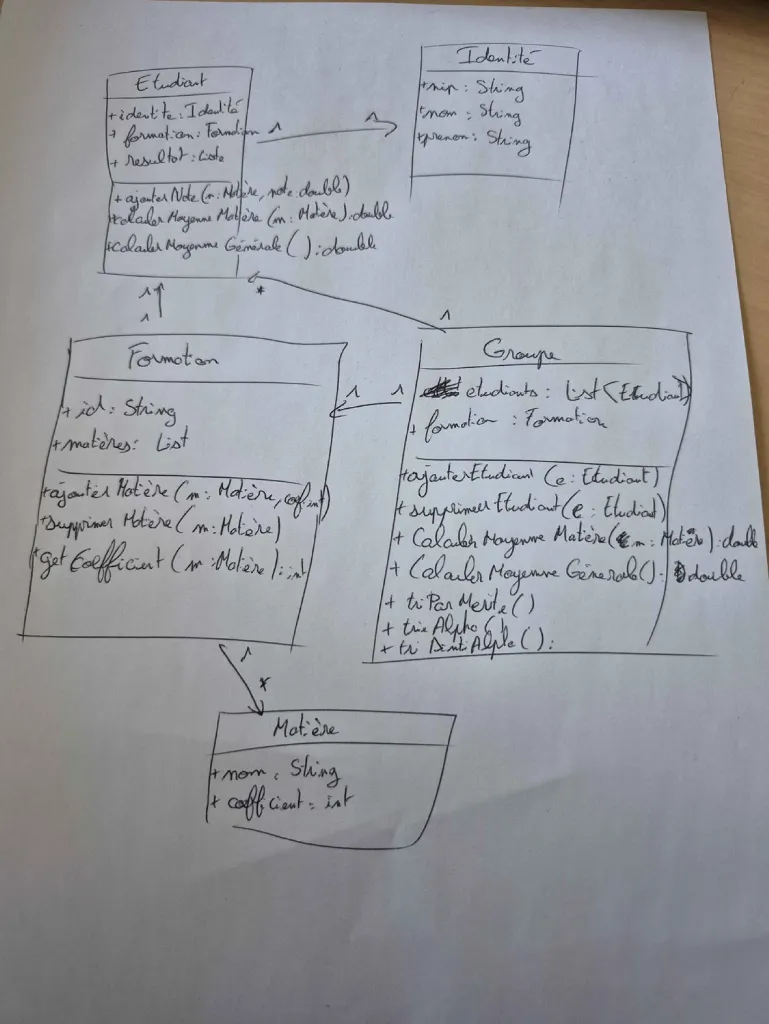
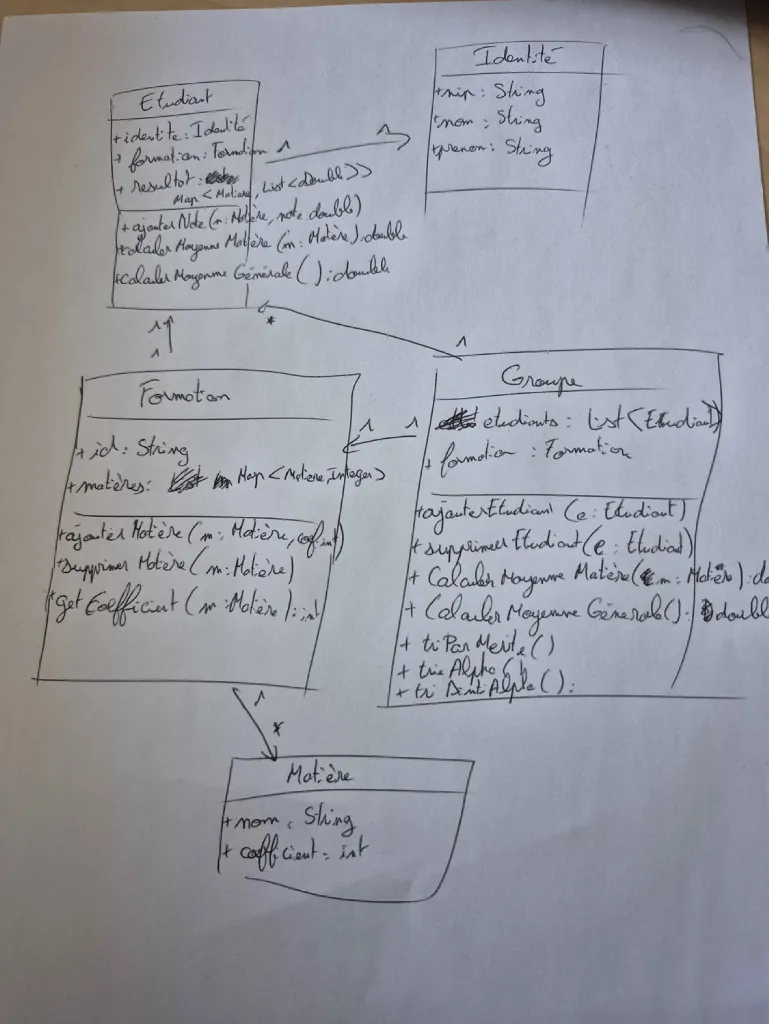
Modifications

diff --git a/Formation/src/Etudiant.java b/Formation/src/Etudiant.java
@@ -1,2 +1,70 @@
+import java.util.*;
+
 public class Etudiant {
+
+    private Identite id;
+
+    private Formation form;
+
+    private Map<Matiere, List<Double>> resultats;
+
+    public Etudiant(Identite identite, Formation formation) {
+        this.id = identite;
+        this.form = formation;
+        this.resultats = new HashMap<>();
+    }
+
+    public Identite getId() {
+        return id;
+    }
+
+    public void ajouterNote(Matiere m, double note){
+        if (note > 20){
+            note = 20;
+        }
+        if (note < 0){
+            note = 0;
+        }
+        if (!resultats.containsKey(m)) {
+            resultats.put(m, new ArrayList<>()); // initialise une liste vide si absente
+        }
+        resultats.get(m).add(note);
+    }
+
+    public double calculerMoyenneMatiere(Matiere matiere){
+        int taille = this.resultats.get(matiere).size();
+        double  moyenneMatiere = 0;
+        for (int i = 0; i < taille; i++){
+            moyenneMatiere += this.resultats.get(matiere).get(i);
+        }
+        return moyenneMatiere/taille;
+    }
+
+    public double calculerMoyenneGenerale(){
+        double somme = 0;
+        double totalCoeff = 0;
+        for (Matiere m : this.form.getMatieres().keySet()){
+            List<Double> notes = this.resultats.get(m);
+            double sommeNotes = 0;
+            for (Double note : notes){
+                sommeNotes += note;
+            }
+            double moyenne =  sommeNotes/notes.size();
+            int coeff = form.getCoefficient(m);
+            somme += moyenne * coeff;
+            totalCoeff += coeff;
+        }
+        if (totalCoeff == 0){
+            return 0;
+        }
+        else return somme/totalCoeff;
+    }
+
+    public Formation getFormation() {
+        return form;
+    }
+
+    public Map<Matiere, List<Double>>  getResultats() {
+        return this.resultats;
+    }
 }

diff --git a/Formation/src/Identite.java b/Formation/src/Identite.java
@@ -1,2 +1,24 @@
 public class Identite {
+    private String nom;
+    private String prenom;
+    private String nip;
+
+    public Identite(String nom,String prenom,String nip)
+    {
+        this.nom=nom;
+        this.prenom=prenom;
+        this.nip=nip;
+    }
+
+    public String getNom() {
+        return nom;
+    }
+
+    public String getPrenom() {
+        return prenom;
+    }
+
+    public String getNip(){
+        return nip;
+    }
 }
